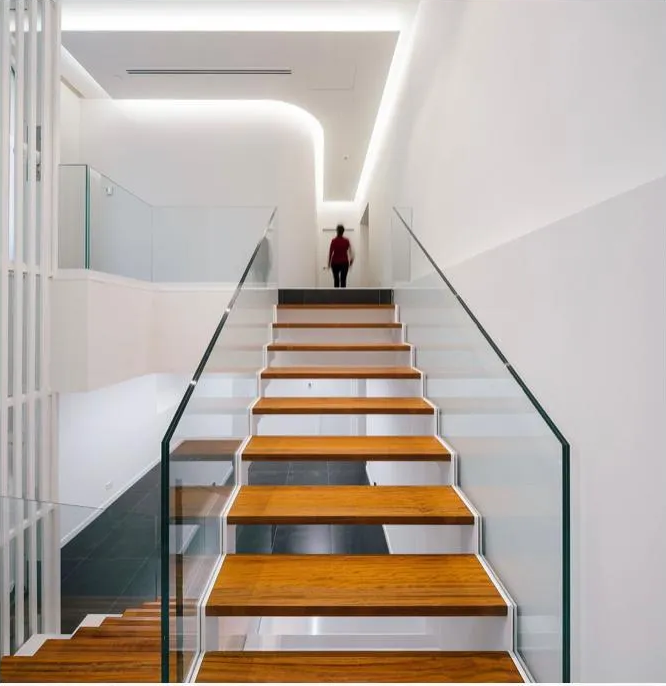
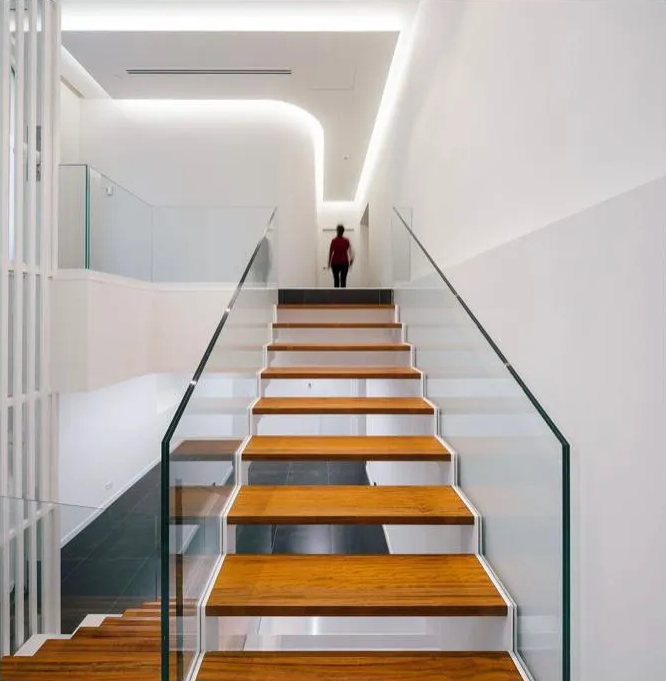
sdgasdgs

diff --git a/js/projects.js b/js/projects.js
@@ -681,6 +681,7 @@ name: "VIVIENDA UNIFAMILIAR VILLAVICIOSA DE ODÓN",
     category: "OBRAS EN EJECUCIÓN",
     location: "Madrid",
     year: "",
+    studioClient: "CLAP ! DESIGN ARQUITECTURA",
     coverImage: "assets/proyectos/54_REFORMA EDIFICIO CHAMBERÍ/54_PORTADA.jpeg",
     description: "",
     gallery: [

diff --git a/assets/proyectos/54_REFORMA EDIFICIO CHAMBERÍ/README.md b/assets/proyectos/54_REFORMA EDIFICIO CHAMBERÍ/README.md
@@ -2,6 +2,8 @@
 
 Categoría: OBRAS EN EJECUCIÓN
 
+Estudio: CLAP ! DESIGN ARQUITECTURA
+
 Ficha incorporada a `js/projects.js` con este orden:
 
 1. `54_PORTADA.jpeg` — fachada, `WhatsApp Image 2026-09-29 at 11.24.403.jpeg`.
